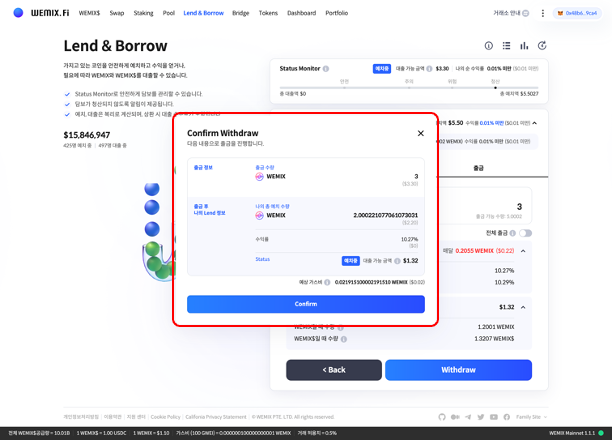
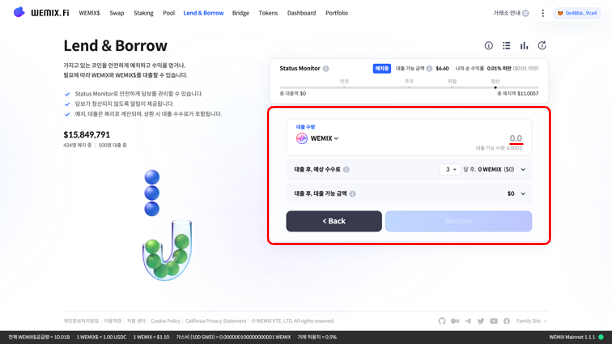
GITBOOK-204: No subject

diff --git a/guides/lend-and-borrow/how-to-withdraw.md b/guides/lend-and-borrow/how-to-withdraw.md
@@ -1,2 +1,84 @@
-# 자산 출금하기
+# 대출 및 상환하기
 
+## Borrow: 자산 대출하기
+
+### WEMIX.Fi Lend & Borrow 접속하기
+
+<figure><img src="../../.gitbook/assets/image (6).png" alt=""><figcaption></figcaption></figure>
+
+* WEMIX.Fi Lend & Borrow에 접속합니다. 메인 페이지에서 ‘Lend & Borrow’ 메뉴를 선택하여 접속합니다.
+
+### Borrow 선택하기
+
+<figure><img src="../../.gitbook/assets/image (17).png" alt=""><figcaption></figcaption></figure>
+
+* 서비스에서 Borrow를 선택합니다. 사용자는 대출 가능한 자산의 종류와 대출 시 연 이자율을 확인할 수 있습니다. 사용자가 대출할 자산에 따라 연 이자율은 다를 수 있습니다.
+* 사용자가 서비스에 예치한 자산이 없을 경우, Borrow 버튼은 활성화 되지 않습니다.
+
+### 대출할 자산 및 수량 선택하기
+
+<figure><img src="../../.gitbook/assets/image (8).png" alt=""><figcaption></figcaption></figure>
+
+* 사용자는 서비스에서 대출할 자산을 선택할 수 있습니다. 자산에 따라 연 이자율과 담보 인정 비율은 다르게 적용되며, 대출 가능한 금액은 대출 과정에서 화면을 통해 확인할 수 있습니다.
+
+<figure><img src="../../.gitbook/assets/image (21).png" alt=""><figcaption></figcaption></figure>
+
+* 버튼을 클릭하면 대출 가능한 자산 목록과 자산별 사용자가 대출 가능한 수량을 확인할 수 있습니다.
+
+<figure><img src="../../.gitbook/assets/image (15).png" alt=""><figcaption></figcaption></figure>
+
+* 사용자는 서비스에 예치한 자산과 담보 인정 비율에 따라 자산을 대출할 수 있습니다.
+
+### 예상 수수료 확인하기
+
+<figure><img src="../../.gitbook/assets/image (9).png" alt=""><figcaption></figcaption></figure>
+
+* 사용자는 한 번에 최대 수량을 대출하거나, 여러 번에 걸쳐 자산을 대출할 수 있습니다. 단, 한 번에 최대 수량을 대출할 경우 청산될 위험이 높으니 부채를 적기에 상환하도록 주의해야 합니다. 여러 번에 걸쳐 자산을 대출할 경우 현재 대출 자산을 고려하여 추가로 대출 가능한 금액을 확인할 수 있습니다.
+
+### 대출 내역 확인 및 승인하기
+
+<figure><img src="../../.gitbook/assets/image (22).png" alt=""><figcaption></figcaption></figure>
+
+* 대출 내역을 확인하고 승인합니다. 사용자는 대출 내역을 통해 입력한 정보를 다시 한 번 확인할 수 있습니다. 잘못 입력한 정보는 수정할 수 있으며, 이상이 없으면 ‘Confirm’ 버튼을 눌러 예치 내역을 승인합니다.
+
+<figure><img src="../../.gitbook/assets/image (13).png" alt=""><figcaption></figcaption></figure>
+
+* 대출을 위해 프로토콜이 사용자의 지갑에 접근할 권한을 요청하며, 트랜잭션 요청을 승인하면 대출이 실행됩니다.
+
+<figure><img src="../../.gitbook/assets/image (20).png" alt=""><figcaption></figcaption></figure>
+
+* 대출 내역을 승인하고 트랜잭션이 정상적으로 전송된 경우, 우측 상단에 ‘Borrow 대출 완료’ 안내 문구가 나타납니다.
+
+<figure><img src="../../.gitbook/assets/image (7).png" alt=""><figcaption></figcaption></figure>
+
+* 사용자가 서비스에서 자산을 대출하면 화면 상단에 Status Monitor가 나타나며, 사용자의 재정 상태를 한눈에 확인할 수 있습니다.
+
+## Borrow: 자산 상환하기
+
+### Manage Borrowing 선택하기
+
+<figure><img src="../../.gitbook/assets/image (2).png" alt=""><figcaption></figcaption></figure>
+
+* 서비스에서 Borrow를 선택합니다. 사용자가 자산을 대출하면 ‘Borrow’ 메뉴 상단에 ‘대출중’ 알림이 활성화되며, ‘Manage Borrowing’ 버튼을 통해 상환 화면으로 이동할 수 있습니다.
+
+### 상환할 자산 및 수량 선택하기
+
+<figure><img src="../../.gitbook/assets/image (4).png" alt=""><figcaption></figcaption></figure>
+
+* 사용자는 화면에서 ‘상환’ 메뉴를 클릭하고 상환할 수량을 입력할 수 있습니다. 사용자는 대출 자산의 규모에 따라 자유롭게 상환이 가능합니다. 단, 대출 자산의 규모가 크고, 담보 자산의 가치가 크게 변동될 경우, 청산이 되거나, 추가 대출 및 출금이 제한될 수 있습니다.
+
+### 변동사항 확인하기
+
+<figure><img src="../../.gitbook/assets/image.png" alt=""><figcaption></figcaption></figure>
+
+* 사용자가 서비스에서 자산을 상환할 경우 연 이자율과 대출 가능 금액이 새롭게 계산됩니다. 변동되는 정보는 서비스 화면을 통해 확인할 수 있습니다.
+
+<figure><img src="../../.gitbook/assets/image (3).png" alt=""><figcaption></figcaption></figure>
+
+* 상환을 위해 프로토콜이 사용자의 지갑에 접근할 권한을 요청하며, 트랜잭션 요청을 승인하면 상환이 실행됩니다.
+
+<figure><img src="../../.gitbook/assets/image (5).png" alt=""><figcaption></figcaption></figure>
+
+* 상환 내역을 승인하고 트랜잭션이 정상적으로 전송된 경우, 우측 상단에 ‘Borrow 상환 완료’ 안내 문구가 나타납니다. 사용자가 자산을 상환하면 Status Monitor에 반영됩니다.
+
+<figure><img src="../../.gitbook/assets/image (1).png" alt=""><figcaption></figcaption></figure>

diff --git a/guides/lend-and-borrow/how-to-lend.md b/guides/lend-and-borrow/how-to-lend.md
@@ -4,7 +4,7 @@
 
 ### WEMIX.Fi Lend & Borrow 접속하기
 
-<figure><img src="../../.gitbook/assets/image (16).png" alt=""><figcaption></figcaption></figure>
+<figure><img src="../../.gitbook/assets/image (16) (1).png" alt=""><figcaption></figcaption></figure>
 
 * WEMIX.Fi Lend & Borrow에 접속합니다. 메인 페이지에서 ‘Lend & Borrow’ 메뉴를 선택하여 접속합니다.
 
@@ -21,17 +21,17 @@
 
 * 사용자는 서비스에 예치할 자산을 선택할 수 있습니다. 자산에 따라 연 수익률과 담보 인정 비율은 다르게 적용되며, 대출 가능한 금액은 예치 과정에서 화면을 통해 확인할 수 있습니다.
 
-<figure><img src="../../.gitbook/assets/image (3).png" alt=""><figcaption></figcaption></figure>
+<figure><img src="../../.gitbook/assets/image (3) (1).png" alt=""><figcaption></figcaption></figure>
 
 * 버튼을 클릭하면 예치 가능한 자산 목록과 자산별 사용자가 보유한 수량을 확인할 수 있습니다.
 
-<figure><img src="../../.gitbook/assets/image (17).png" alt=""><figcaption></figcaption></figure>
+<figure><img src="../../.gitbook/assets/image (17) (1).png" alt=""><figcaption></figcaption></figure>
 
 * 사용자는 예치 수량에 제한 없이 원하는만큼 자산을 예치할 수 있습니다.
 
 ### 예상 리워드 확인하기
 
-<figure><img src="../../.gitbook/assets/image (6).png" alt=""><figcaption></figcaption></figure>
+<figure><img src="../../.gitbook/assets/image (6) (2).png" alt=""><figcaption></figcaption></figure>
 
 * 사용자가 자산을 예치하고 예상 수익과 대출 가능 금액를 확인합니다. 예상 수익은 사용자가 자산을 예치함으로써 대출 유동성을 제공하는 대가로 지급되며, 서비스에 자산을 예치한 사용자는 필요에 따라 자산을 대출할 수 있습니다.
 
@@ -41,15 +41,15 @@
 
 * 예치 내역을 확인하고 승인합니다. 사용자는 예치 내역을 통해 입력한 정보를 다시 한 번 확인할 수 있습니다. 잘못 입력한 정보는 수정할 수 있으며, 이상이 없으면 ‘Confirm’ 버튼을 눌러 예치 내역을 승인합니다.
 
-<figure><img src="../../.gitbook/assets/image (20).png" alt=""><figcaption></figcaption></figure>
+<figure><img src="../../.gitbook/assets/image (20) (1).png" alt=""><figcaption></figcaption></figure>
 
 * 예치를 위해 프로토콜이 사용자의 지갑에 접근할 권한을 요청하며, 트랜잭션 요청을 승인하면 예치가 실행됩니다.
 
-<figure><img src="../../.gitbook/assets/image (22).png" alt=""><figcaption></figcaption></figure>
+<figure><img src="../../.gitbook/assets/image (22) (1).png" alt=""><figcaption></figcaption></figure>
 
 * 예치 내역을 승인하고 트랜잭션이 정상적으로 전송된 경우, 우측 상단에 ‘Lend 예치 완료’ 안내 문구가 나타납니다.
 
-<figure><img src="../../.gitbook/assets/image (8).png" alt=""><figcaption></figcaption></figure>
+<figure><img src="../../.gitbook/assets/image (8) (1).png" alt=""><figcaption></figcaption></figure>
 
 * 사용자가 서비스에 자산을 예치하면 화면 상단에 Status Monitor가 나타나며, 사용자의 재정 상태를 한눈에 확인할 수 있습니다.
 
@@ -57,14 +57,14 @@
 
 ### Manage Lending 선택하기
 
-<figure><img src="../../.gitbook/assets/image (21).png" alt=""><figcaption></figcaption></figure>
+<figure><img src="../../.gitbook/assets/image (21) (1).png" alt=""><figcaption></figcaption></figure>
 
 * 서비스에서 Lend를 선택합니다. 사용자가 자산을 예치하면 ‘Lend’ 메뉴 상단에 ‘예치중’ 알림이 활성화되며, ‘Manage Lending’ 버튼을 통해 출금 화면으로 이동할 수 있습니다.
 * 사용자가 서비스에 예치한 자산이 있을 경우, Borrow 버튼이 활성화 됩니다.
 
 ### 출금할 자산 및 수량 선택하기
 
-<figure><img src="../../.gitbook/assets/image (2).png" alt=""><figcaption></figcaption></figure>
+<figure><img src="../../.gitbook/assets/image (2) (1).png" alt=""><figcaption></figcaption></figure>
 
 * 사용자는 화면에서 ‘출금’ 메뉴를 클릭하고 출금할 수량을 입력할 수 있습니다. 사용자는 대출 자산이 없을 경우 자유롭게 출금이 가능합니다. 단, 대출 자산이 있을 경우 상환을 위해 일부 출금이 제한될 수 있습니다. 사용자가 출금할 수 있는 최대 수량은 서비스 화면을 통해 확인할 수 있습니다.
 
@@ -76,11 +76,11 @@
 
 ### 출금 내역 확인 및 승인하기
 
-<figure><img src="../../.gitbook/assets/image (15).png" alt=""><figcaption></figcaption></figure>
+<figure><img src="../../.gitbook/assets/image (15) (1).png" alt=""><figcaption></figcaption></figure>
 
 * 출금 내역을 확인하고 승인합니다. 사용자는 출금 내역을 통해 입력한 정보를 다시 한 번 확인할 수 있습니다. 잘못 입력한 정보는 수정할 수 있으며, 이상이 없으면 ‘Confirm’ 버튼을 눌러 출금 내역을 승인합니다.
 
-<figure><img src="../../.gitbook/assets/image (13).png" alt=""><figcaption></figcaption></figure>
+<figure><img src="../../.gitbook/assets/image (13) (1).png" alt=""><figcaption></figcaption></figure>
 
 * 출금을 위해 프로토콜이 사용자의 지갑에 접근할 권한을 요청하며, 트랜잭션 요청을 승인하면 출금이 실행됩니다.
 

diff --git a/guides/lend-and-borrow/README.md b/guides/lend-and-borrow/README.md
@@ -1,6 +1,6 @@
 # Lend & Borrow 이용가이드
 
-<figure><img src="../../.gitbook/assets/image (9).png" alt=""><figcaption></figcaption></figure>
+<figure><img src="../../.gitbook/assets/image (9) (1).png" alt=""><figcaption></figcaption></figure>
 
 WEMIX.Fi의 Lend\&Borrow는 사용자가 보유한 자산을 예치하고 수익을 얻거나, 필요에 따라 WEMIX와 WEMIX$를 대출할 수 있는 서비스입니다. 상단에 ⓘ 모양의 아이콘을 클릭하면 ‘단계별 가이드(Step Guide)’에 따라 화면을 보면서 쉽게 따라할 수 있습니다. 본 이용가이드에는 Lend\&Borrow 서비스를 통해 사용자가 보유한 자산을 예치하고 대출하는 과정에 대해 안내합니다.
 
